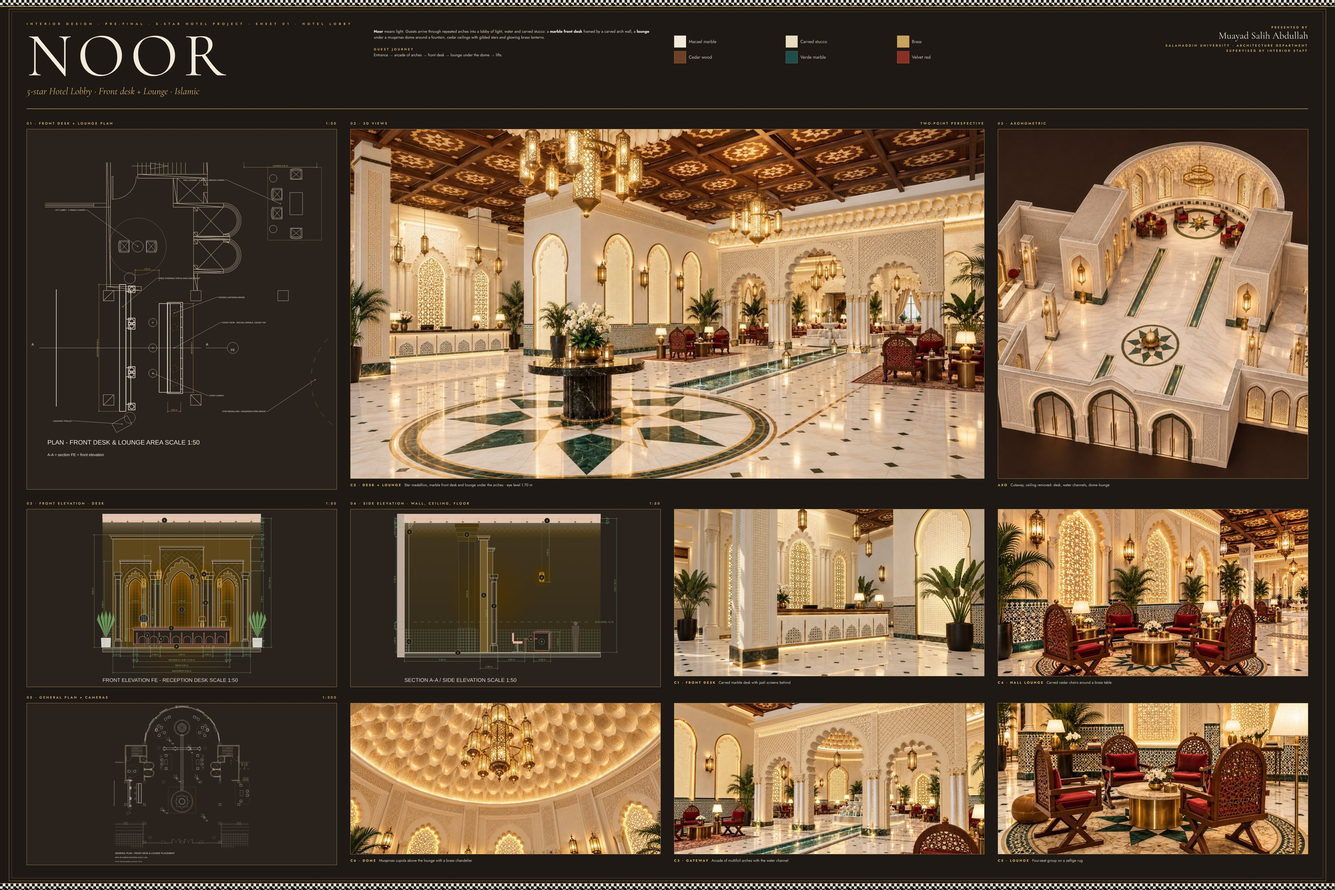
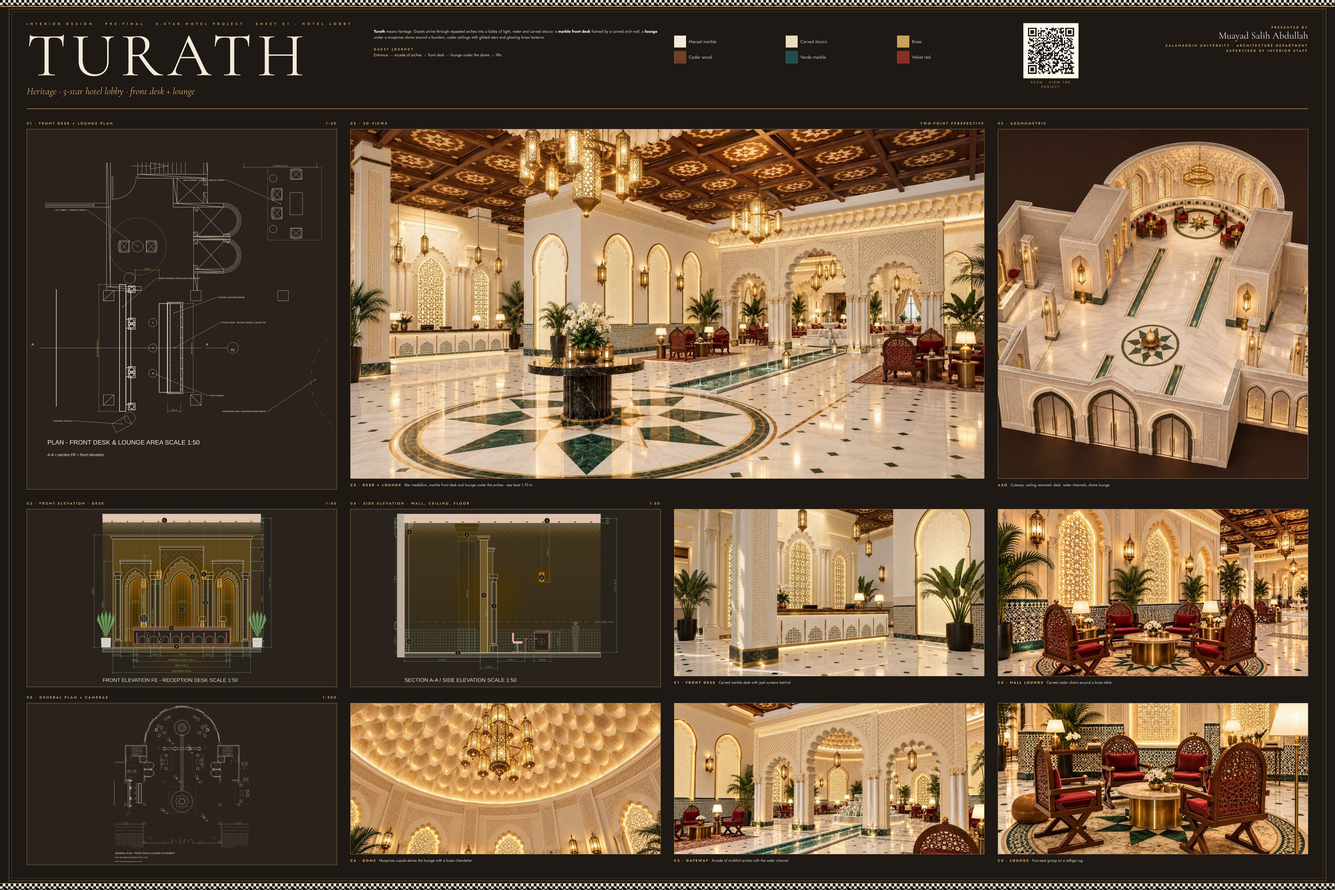
Rename to Turath, QR on both sheets
Claude-Session: https://claude.ai/code/session_01Upk34GBzpMcswmLYYq3ac9

Changed region(s): [[0.0311, 0.0312, 0.2178, 0.125], [0.7467, 0.0, 0.8089, 0.0938]]

diff --git a/index.html b/index.html
@@ -1,5 +1,5 @@
 <!doctype html><html lang="en"><head><meta charset="utf-8"><meta name="viewport" content="width=device-width,initial-scale=1">
-<title>Noor and Kultur</title>
+<title>Turath</title>
 <link rel="stylesheet" href="https://fonts.googleapis.com/css2?family=Cormorant+Garamond:ital,wght@0,500;0,600;1,500&family=Jost:wght@350;500;600&display=swap">
 <style>
 :root{--bg:#1e1915;--sf:#27201a;--ink:#efe6d6;--mu:#b9ab95;--gold:#d9b06a;--ln:#3d3228;color-scheme:dark}
@@ -29,13 +29,13 @@ footer{padding:26px 0 40px;color:var(--mu);font-size:13px}
 a:focus-visible,img:focus-visible,.x:focus-visible{outline:2px solid var(--gold);outline-offset:3px}
 </style></head><body><div class="band"></div><div class="wrap">
 <header><div class="lbl">Interior Design · Pre-final · 5-star hotel project</div>
-<h1>NOOR <span style="color:var(--gold)">&amp;</span> KULTUR</h1>
+<h1>TURATH <span style="font-size:.4em;color:var(--gold);font-style:italic">heritage</span></h1>
 <div class="who">Muayad Salih Abdullah · Salahaddin University · Architecture Department</div>
-<nav><a href="#noor">Hotel lobby · Noor</a><a href="#kultur">Jamadani shop · Kultur</a><a href="shop.html">3D model (shop)</a></nav></header>
+<nav><a href="#noor">Hotel lobby</a><a href="#kultur">Jamadani shop</a><a href="shop.html">3D model (shop)</a></nav></header>
 
-<section id="noor"><div class="lbl">Sheet 01</div><h2>NOOR<small>5-star hotel lobby · front desk + lounge</small></h2>
-<p class="c">Noor means light. Guests arrive through repeated arches into a lobby of light, water and carved stucco: a marble front desk framed by a carved arch wall and a lounge under a muqarnas dome, with cedar ceilings and brass lanterns.</p>
-<img class="sheet" src="noor/sheet.jpg" alt="Noor presentation sheet" tabindex="0">
+<section id="noor"><div class="lbl">Sheet 01</div><h2>TURATH · HOTEL<small>5-star hotel lobby · front desk + lounge</small></h2>
+<p class="c">Turath means heritage. Guests arrive through repeated arches into a lobby of light, water and carved stucco: a marble front desk framed by a carved arch wall and a lounge under a muqarnas dome, with cedar ceilings and brass lanterns.</p>
+<img class="sheet" src="noor/sheet.jpg" alt="Hotel presentation sheet" tabindex="0">
 <div class="grid">
 <figure><img src="noor/axo.jpg" alt="" tabindex="0"><figcaption><b>AXO</b>Cutaway, ceiling removed</figcaption></figure>
 <figure><img src="c2.jpg" alt="" tabindex="0"><figcaption><b>C2</b>Front desk + lounge</figcaption></figure>
@@ -45,9 +45,9 @@ a:focus-visible,img:focus-visible,.x:focus-visible{outline:2px solid var(--gold)
 <figure><img src="c6.jpg" alt="" tabindex="0"><figcaption><b>C6</b>Muqarnas dome</figcaption></figure>
 </div></section>
 
-<section id="kultur"><div class="lbl">Sheet 02</div><h2>KULTUR<small>Islamic jamadani boutique · Kurdish men's culture · 10 × 12 m</small></h2>
+<section id="kultur"><div class="lbl">Sheet 02</div><h2>TURATH · SHOP<small>Islamic jamadani boutique · Kurdish men's culture · 10 × 12 m</small></h2>
 <p class="c">A boutique that celebrates Kurdish culture through the jamadani. One multifoil arch repeats on every wall, framing the jamadanis in warm walnut niches; a central walnut-and-marble table with gold jaali, a red-and-ivory mosaic cashier and a Persian-carpet mirror for trying the jamadani on.</p>
-<img class="sheet" src="kultur/sheet.jpg" alt="Kultur presentation sheet" tabindex="0">
+<img class="sheet" src="kultur/sheet.jpg" alt="Shop presentation sheet" tabindex="0">
 <div class="grid">
 <figure><img src="kultur/v1.jpg" alt="" tabindex="0"><figcaption><b>V1</b>Overall view</figcaption></figure>
 <figure><img src="kultur/axo.jpg" alt="" tabindex="0"><figcaption><b>AXO</b>Cutaway, ceiling removed</figcaption></figure>
@@ -59,7 +59,7 @@ a:focus-visible,img:focus-visible,.x:focus-visible{outline:2px solid var(--gold)
 </div>
 <div class="dl"><a class="btn" href="kultur/01_Plan_1-50.dxf" download>Plan DXF</a><a class="btn" href="kultur/05_Elevation_C_Left_1-50.dxf" download>Elevation C DXF</a><a class="btn" href="kultur/04_Elevation_B_Cashier_1-50.dxf" download>Elevation B DXF</a><a class="btn" href="kultur/08_Detail_Cashier_1-10.dxf" download>Cashier detail</a><a class="btn" href="kultur/09_Detail_Table_Mirror_1-10.dxf" download>Table + mirror detail</a></div>
 </section>
-<footer>Muayad Salih Abdullah · Noor &amp; Kultur · Pre-final 19.11.2026 · <a href="boutique.html" style="color:var(--gold)">earlier boutique version</a></footer>
+<footer>Muayad Salih Abdullah · Turath · Pre-final 19.11.2026 · <a href="boutique.html" style="color:var(--gold)">earlier boutique version</a></footer>
 </div><div class="band"></div>
 <div class="zoom" id="z" hidden><img id="zi" alt=""></div><button class="x" id="x" type="button" hidden>Close</button>
 <script>const z=document.getElementById('z'),zi=document.getElementById('zi'),x=document.getElementById('x');
